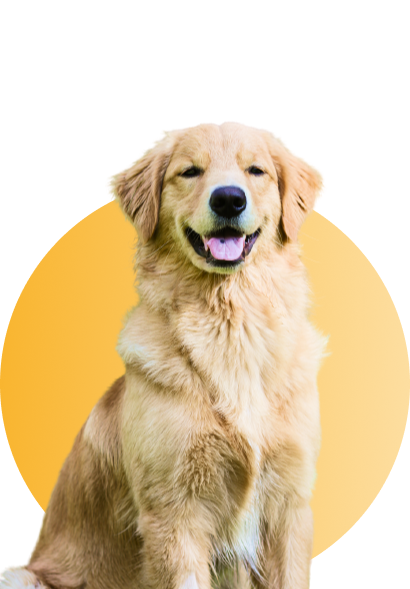
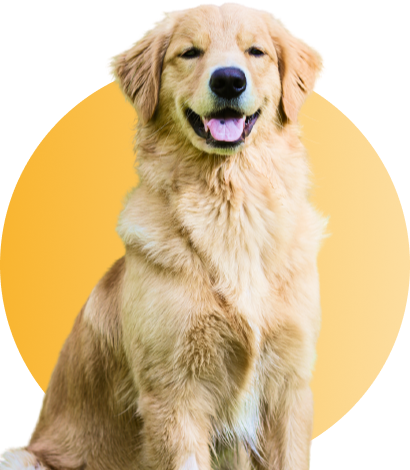
changed sizes of the dog's picture
margin was added to the main div

diff --git a/frontend/src/pages/index.js b/frontend/src/pages/index.js
@@ -28,7 +28,7 @@ export default function Home() {
                <div className={homeStyle.signUp}>Sign Up Now</div>
             </section>
             <section className={homeStyle.section2}>
-               <Image src={"/HeroPic.png"} width="390" height="500"></Image>
+               <Image src={"/HeroPic.png"} width="410" height="450"></Image>
             </section>
          </main>
       </>

diff --git a/frontend/src/styles/Home.module.scss b/frontend/src/styles/Home.module.scss
@@ -3,8 +3,9 @@
 
 .main {
    display: flex;
-   justify-content: center;
+   justify-content: space-evenly;
    align-items: flex-end;
+   margin-top: 30px;
 
    .section1 {
       div:not(:last-child) {
@@ -40,8 +41,5 @@
          line-height: 44px;
          text-align: center;
       }
-   }
-
-   .section2 {
    }
 }
